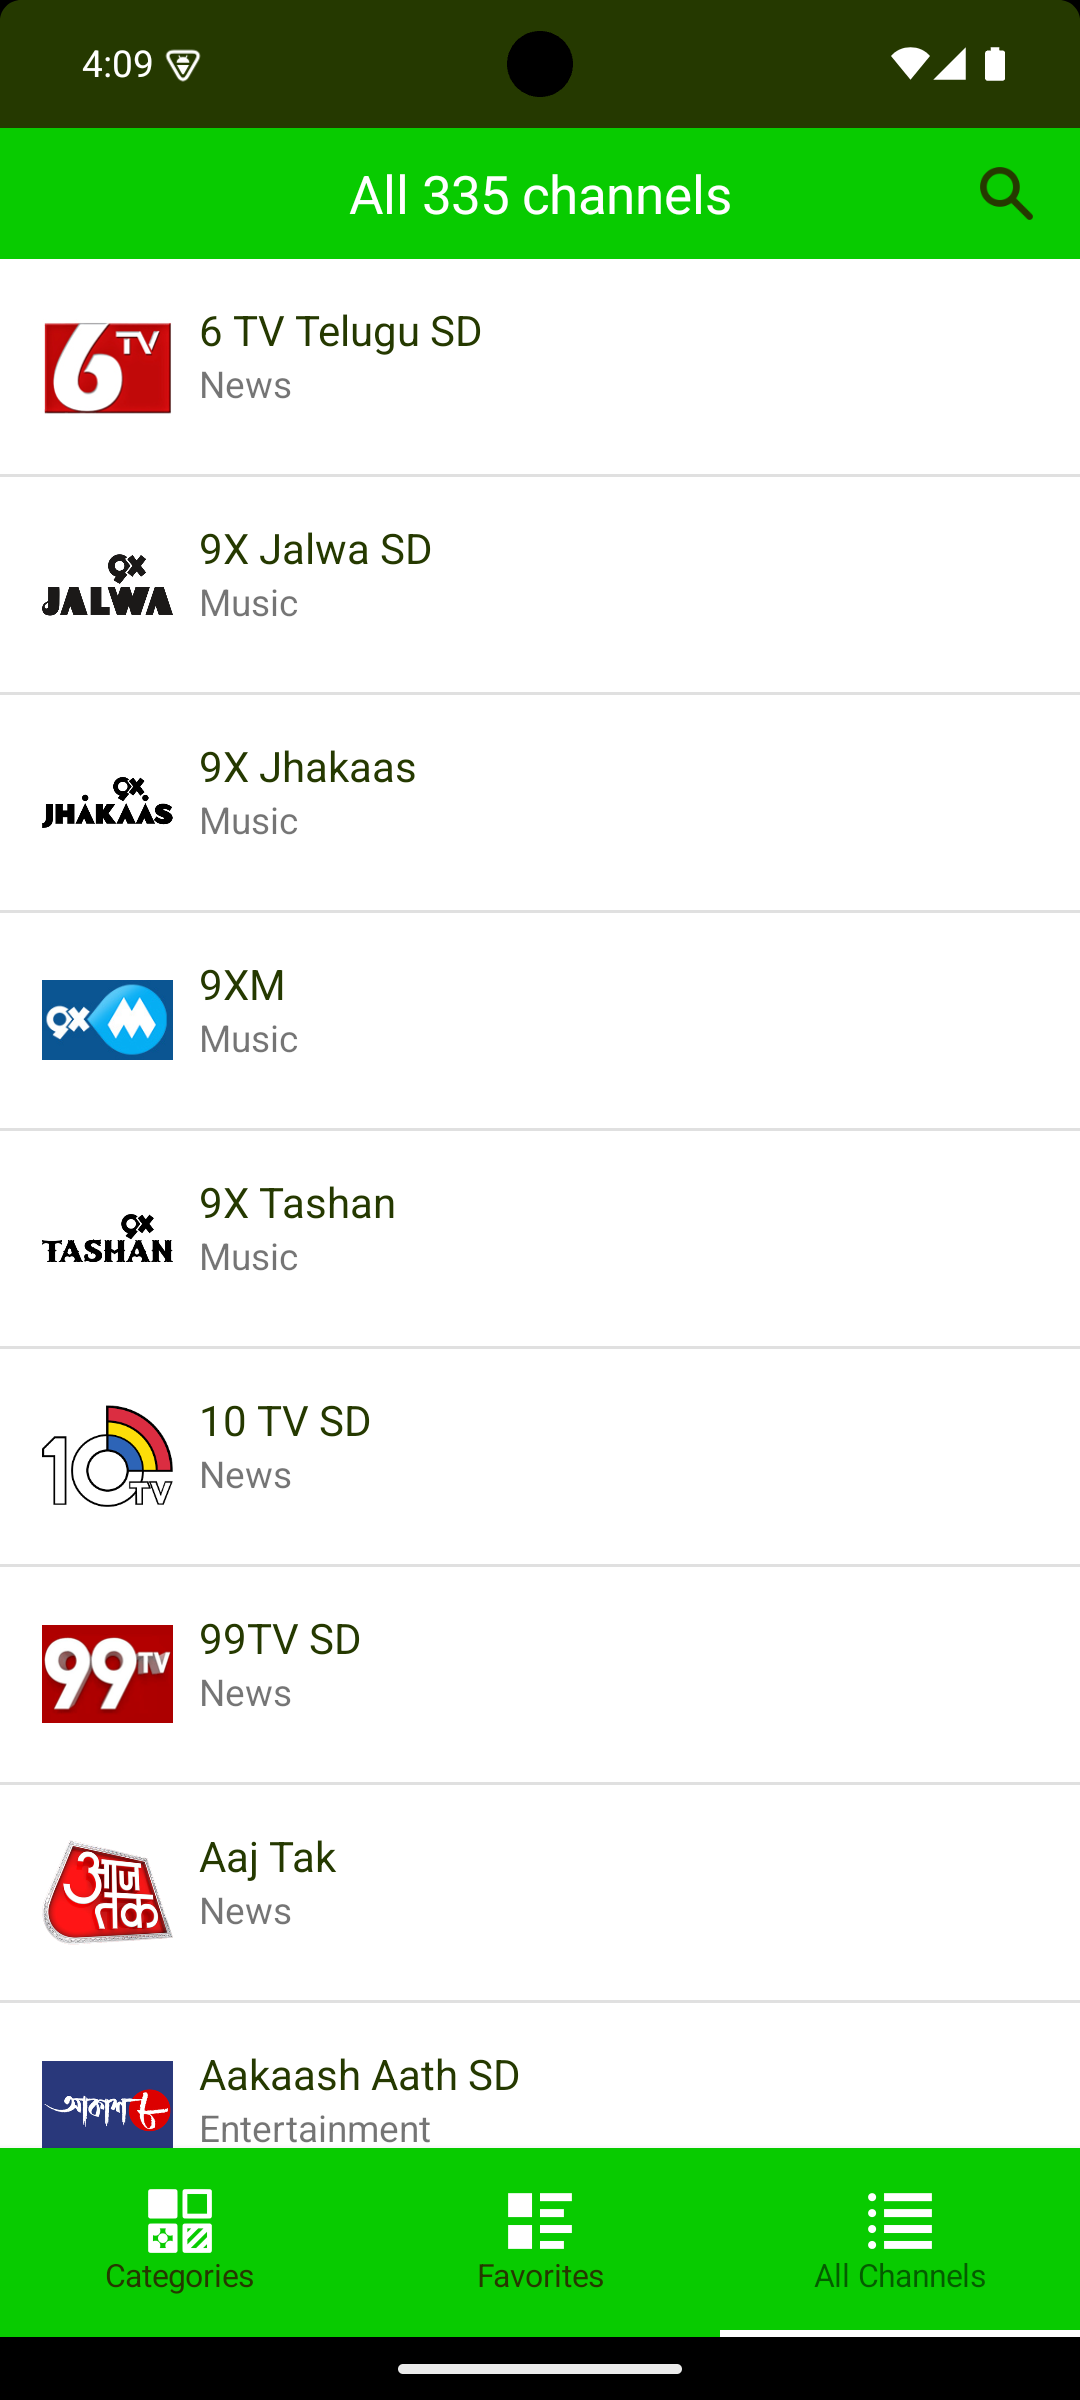
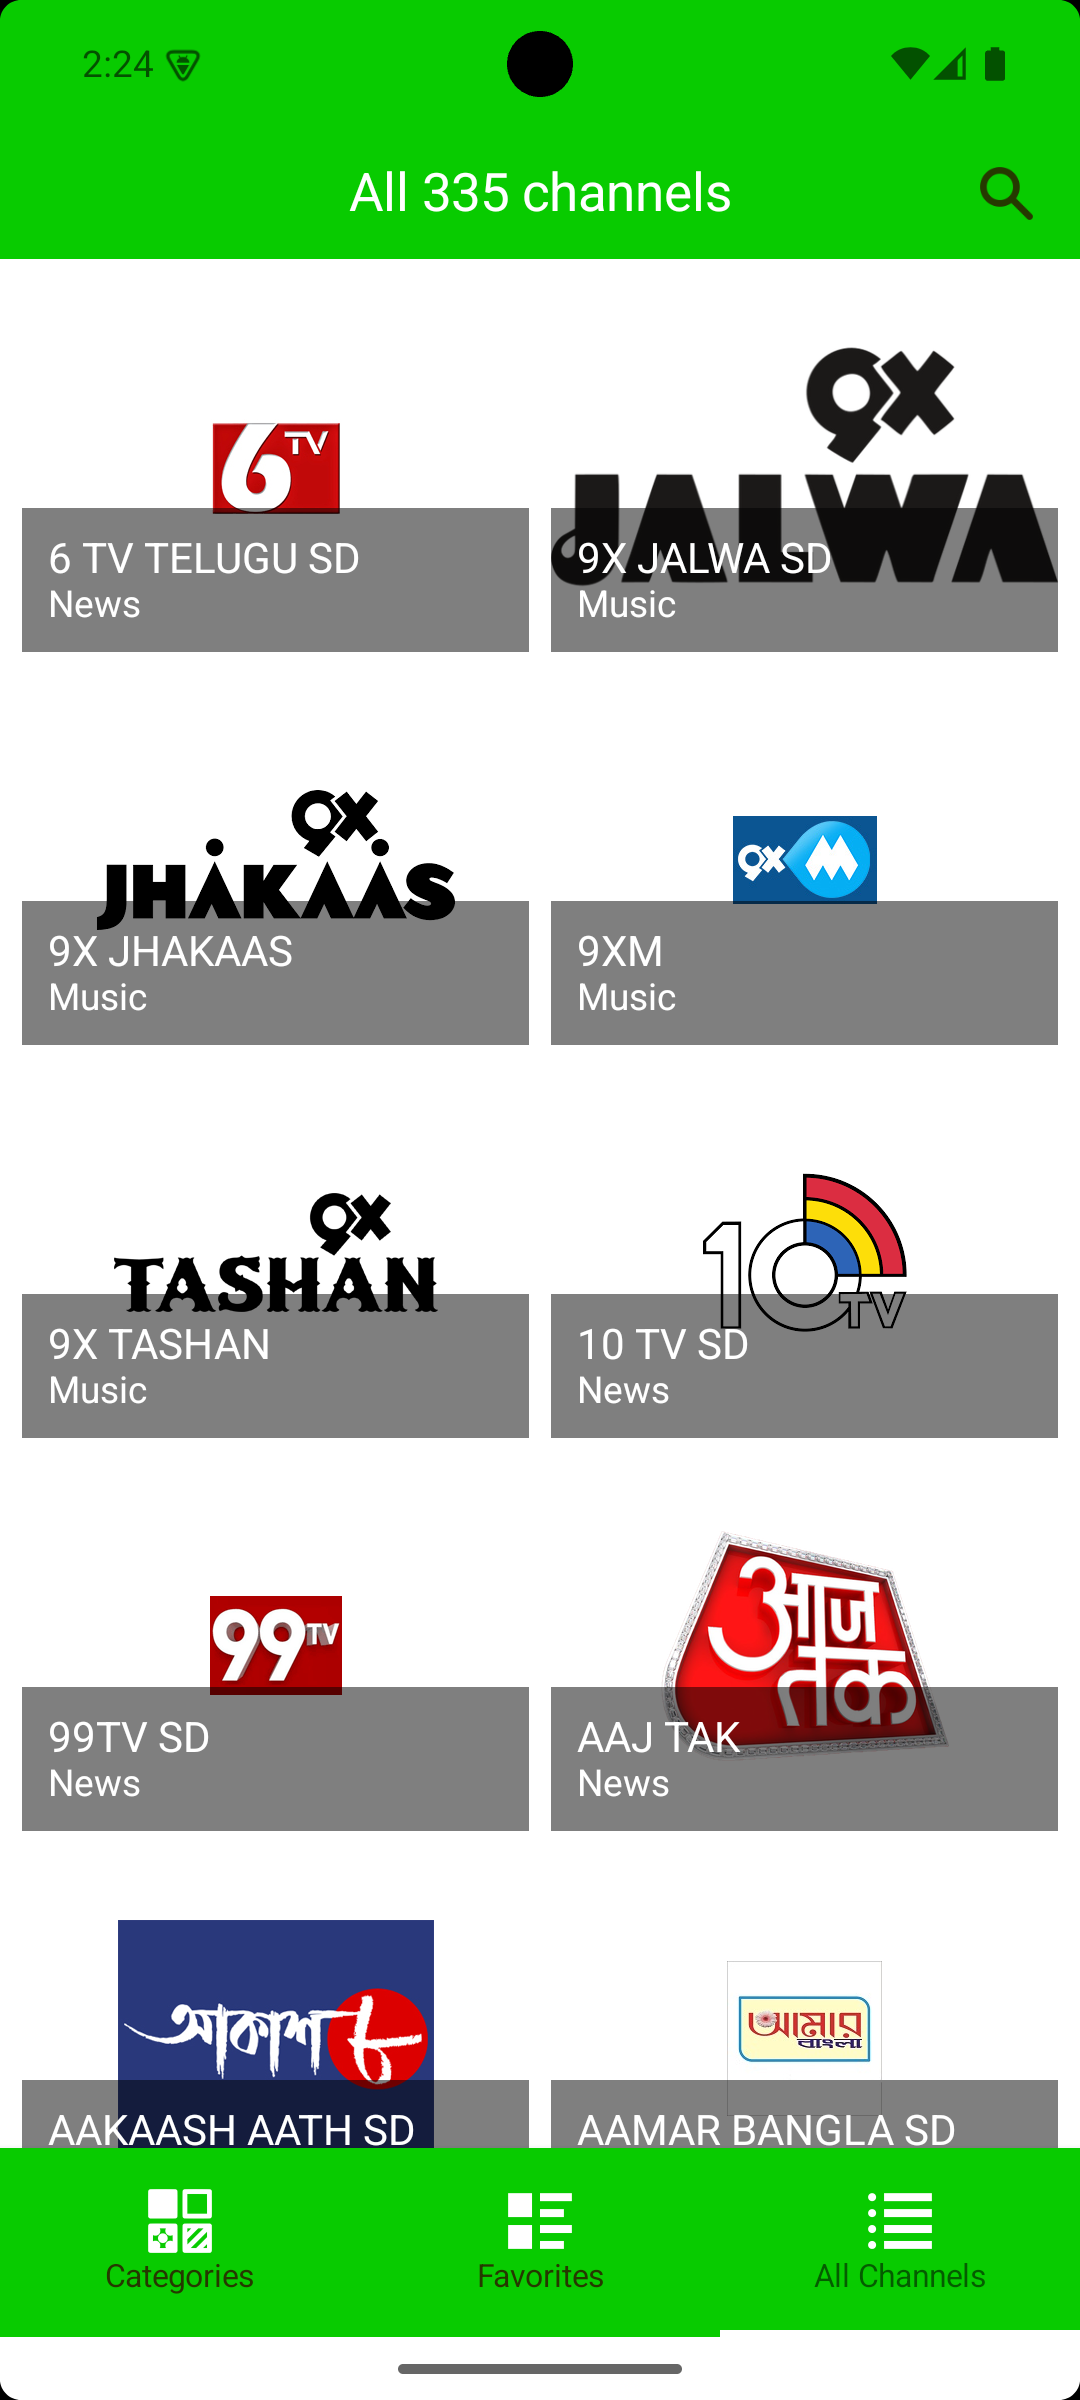
Refactor channel list UI to use CollectionView with grid layout.
Replace ListView with NativeScript Community UI CollectionView for
improved
performance and modern grid-based channel display. Channels now render
in a
two-column grid with image cards and overlay text instead of a vertical
list.

diff --git a/app/components/channel-list/channel-list.ts b/app/components/channel-list/channel-list.ts
@@ -1,19 +1,19 @@
-import { Dialogs, EventData, fromObject, ListView, ObservableArray, Page } from "@nativescript/core";
+import { Dialogs, EventData, fromObject, ObservableArray, Page, StackLayout } from "@nativescript/core";
 import IndianChannels from "~/assets/json/IndianChannels.json";
 import { getTopFrame } from "../../common/helpers";
 import favoriteChannelStore from "../../common/store/favorite-channels";
 
-interface PropsType extends ListView {
+interface PropsType extends StackLayout {
   channels: ObservableArray<typeof IndianChannels[0]>;
 }
 
 export function onLoaded(args: EventData) {
-  const listView = (args.object as PropsType);
-  listView.bindingContext = fromObject({
-    channels: listView.channels,
+  const stackLayout = (args.object as PropsType);
+  stackLayout.bindingContext = fromObject({
+    channels: stackLayout.channels,
     onItemEvent: (channel: typeof IndianChannels[0]) => {
       return ({ eventName }: EventData) => {
-        onChannelItemTap(channel, eventName, listView.page);
+        onChannelItemTap(channel, eventName, stackLayout.page);
       };
     }
   });

diff --git a/app/screens/about-page/about-html.ts b/app/screens/about-page/about-html.ts
@@ -15,6 +15,7 @@ export default `
     <ul>
       <li>@nstudio/nativescript-exoplayer</li>
       <li>@nativescript/core</li>
+      <li>@nativescript-community/ui-collectionview</li>
       <li>@nativescript-community/ui-material-ripple</li>
       <li>@nativescript-community/ui-image</li>
       <li>tailwindcss</li>

diff --git a/app/app.ts b/app/app.ts
@@ -10,7 +10,7 @@ import { Application } from '@nativescript/core'
 
 initialize({ isDownsampleEnabled: true });
 
-Application.run({ moduleName: 'app-root' })
+Application.run({ moduleName: 'app-root' });
 
 /*
 Do not place any code after the application has been started as it will not

diff --git a/README.md b/README.md
@@ -22,6 +22,7 @@ IP TV app with over 300+ Indian TV channels, built using NativeScript for Androi
 - NativeScript ExoPlayer (`@nstudio/nativescript-exoplayer`)
 - NativeScript Community UI Material Ripple (`@nativescript-community/ui-material-ripple`)
 - NativeScript Community UI Image (`@nativescript-community/ui-image`)
+- NativeScript Community UI Collection View (`@nativescript-community/ui-collectionview`)
 - TailwindCSS for styling
 
 ## Installation
@@ -77,4 +78,3 @@ This project is licensed under the MIT License - see the [LICENSE](LICENSE) file
 ---
 
 For issues, feature requests or contributions, please open a GitHub issue or pull request.
-
